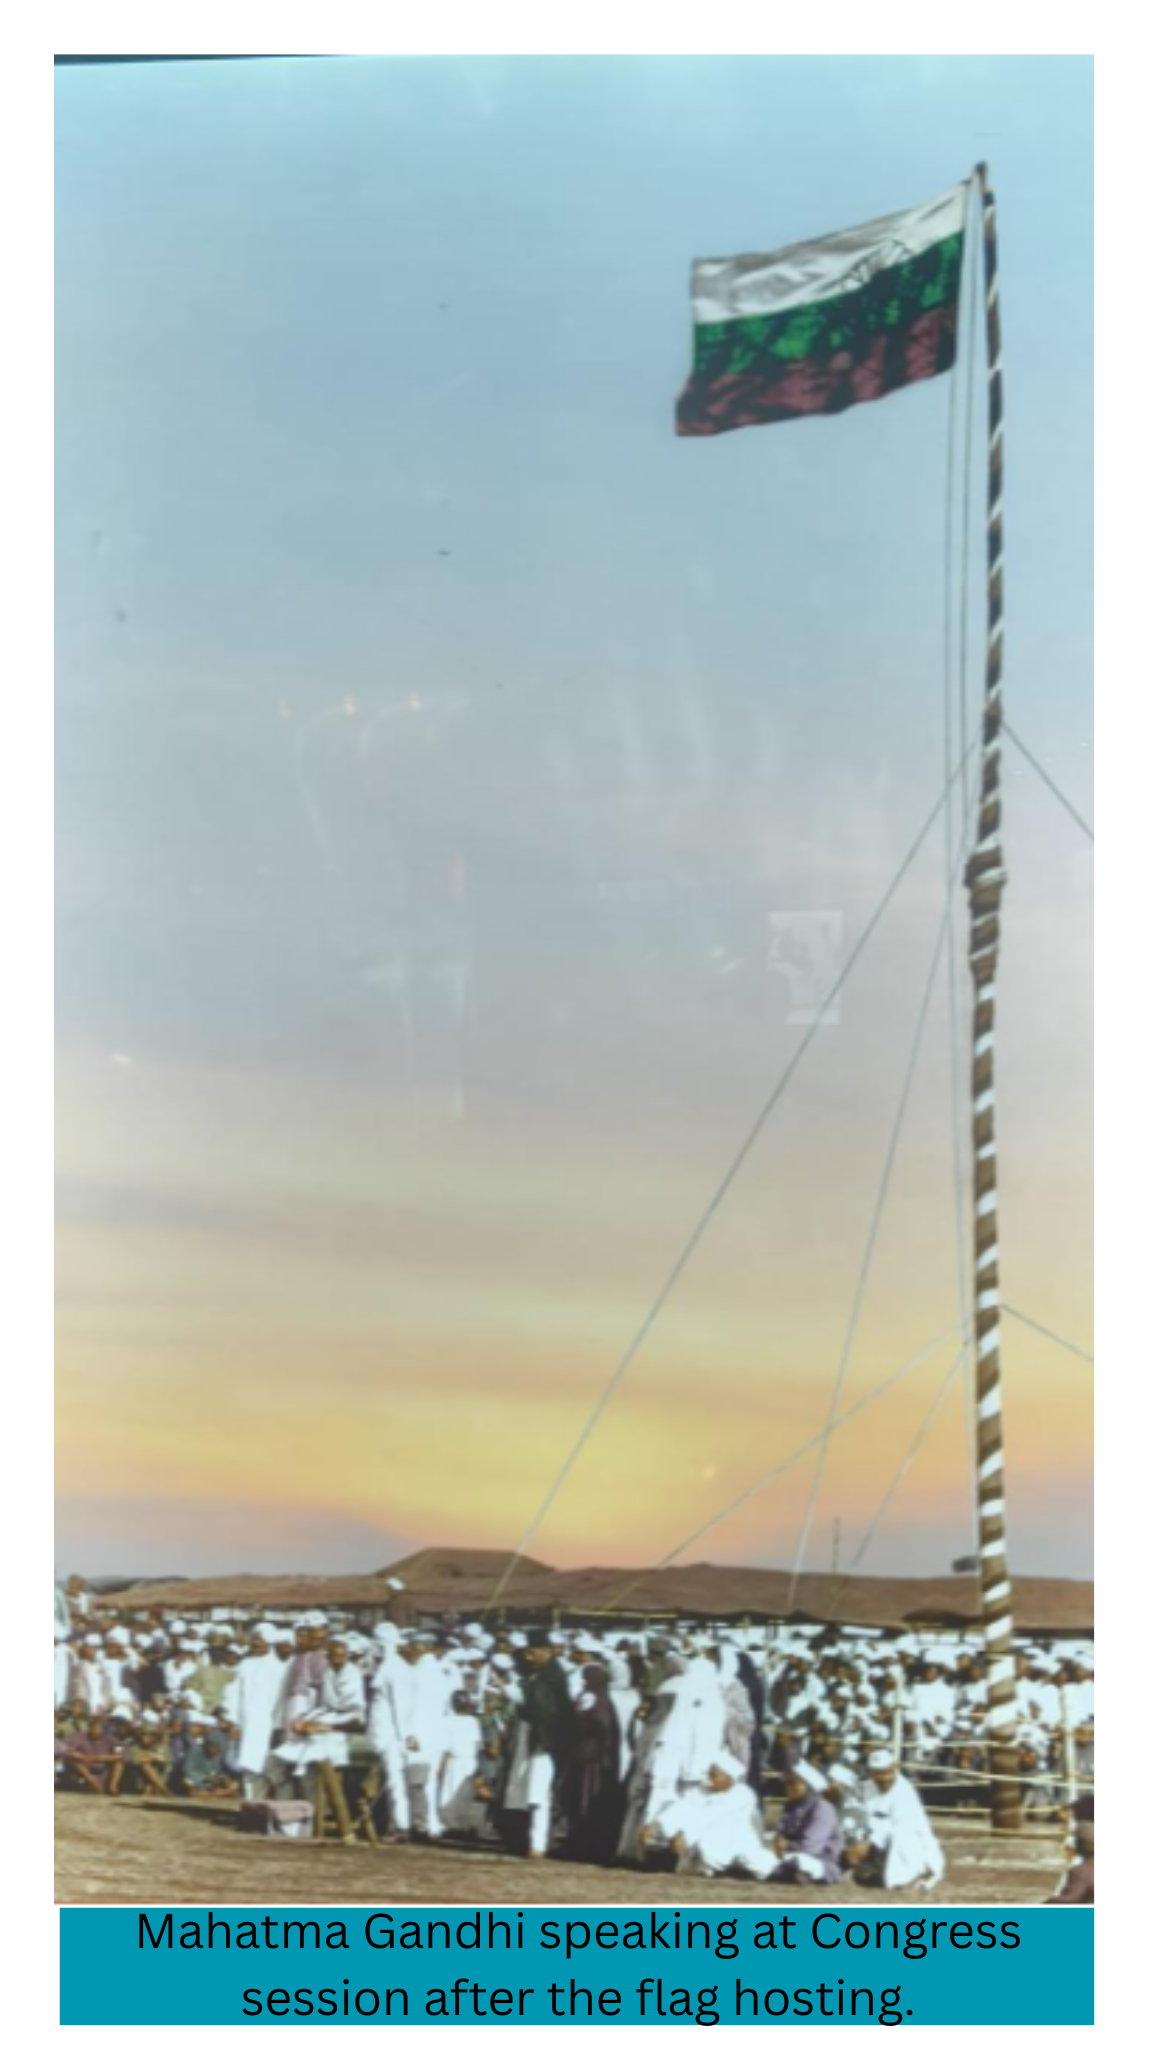
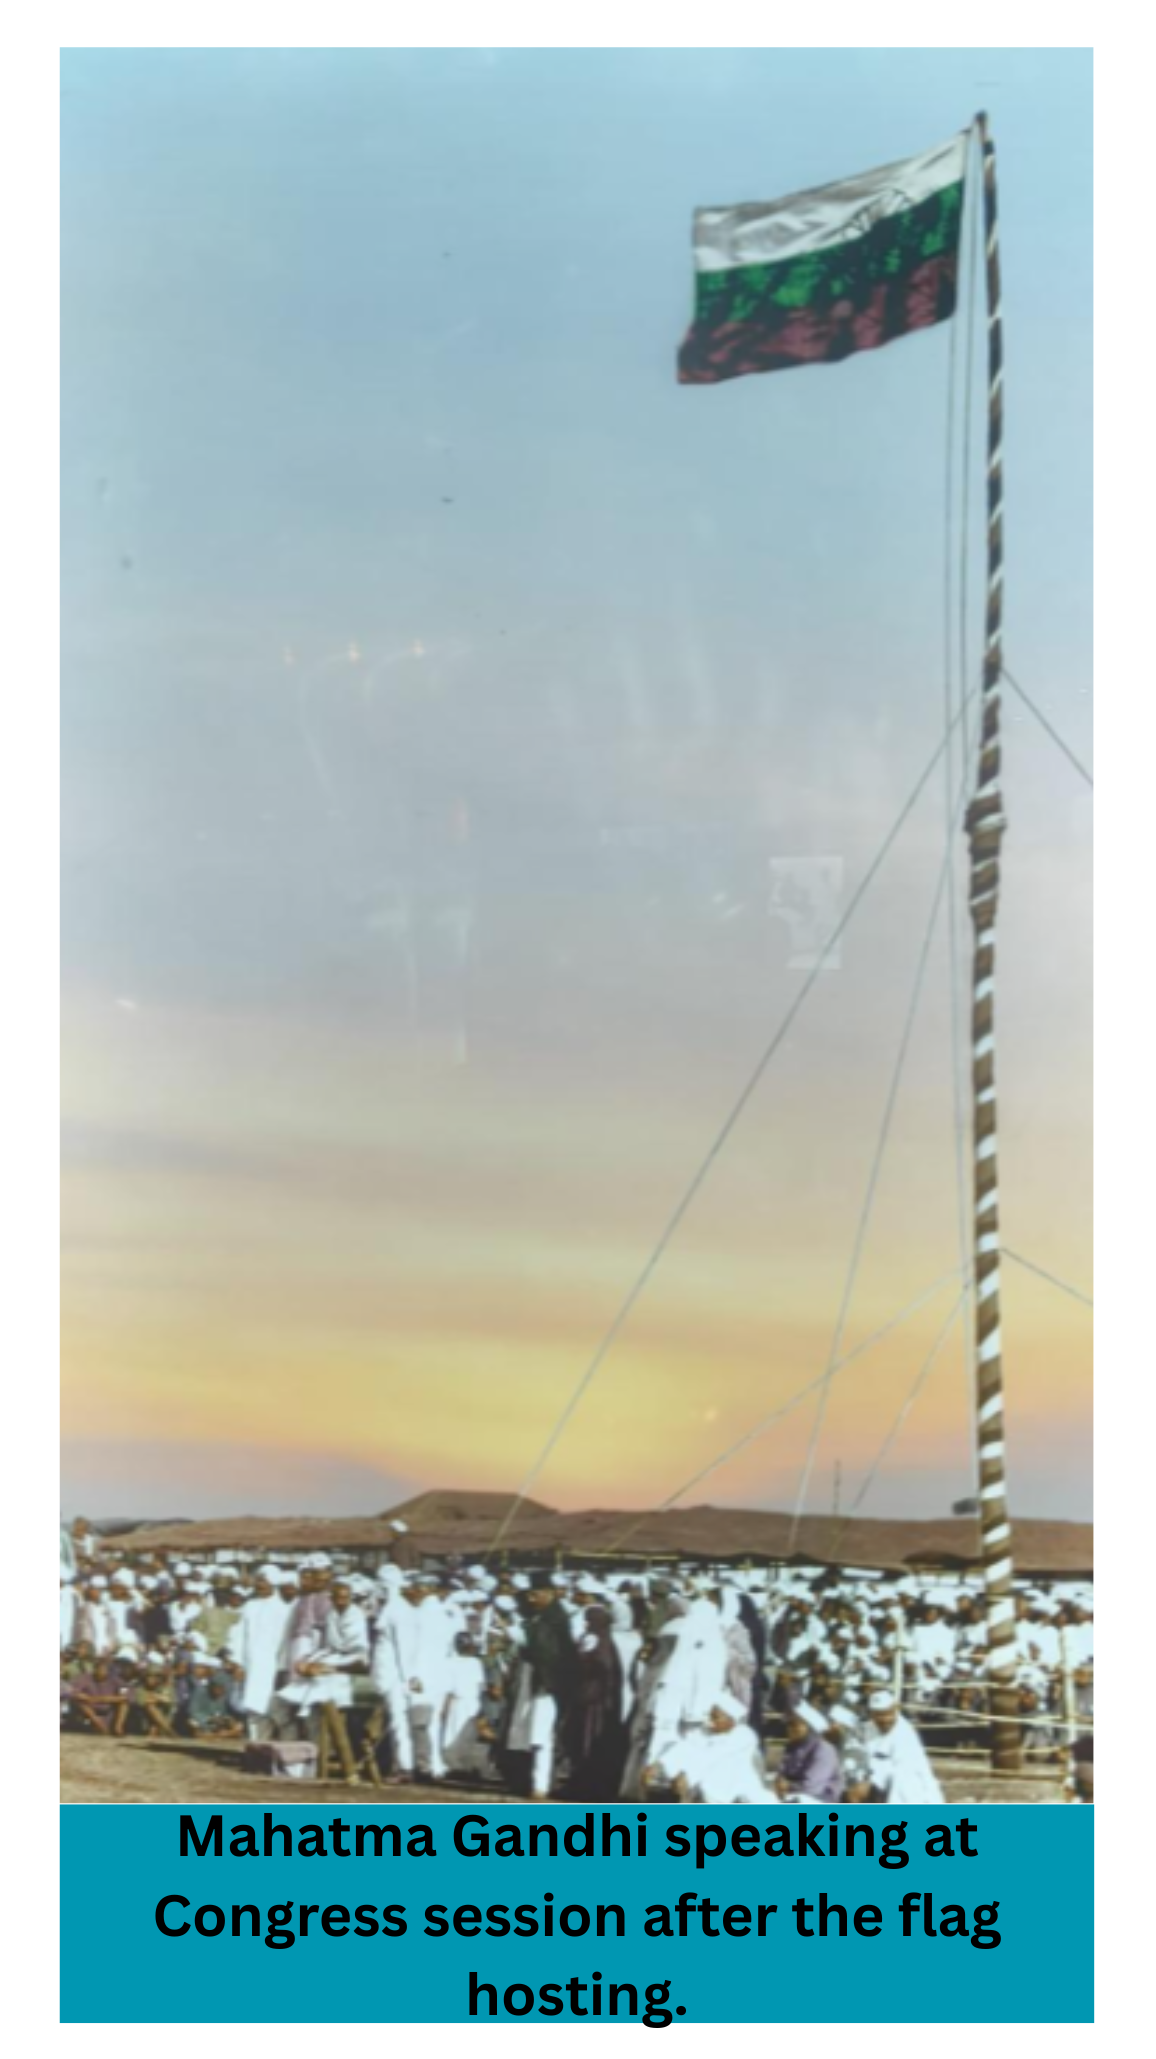
updated frames

diff --git a/index.html b/index.html
@@ -214,7 +214,7 @@ AFRAME.registerComponent('gate-focus', {
 <a-text value="Balkrishna Deshpande\nFather of Gangadharrao Deshpande" position="-56 11.5 80" rotation="0 120 0" align="center" width="12" color="black"></a-text>-->
 <a-plane src="procession.png" position="-56.5 16 80" rotation="0 120 0" width="10" height="6"></a-plane>
 
-<a-plane src="bhave.png" position="-56.5 7 80" rotation="0 120 0" width="10" height="6"></a-plane>
+<a-plane src="bhave.png" position="-56.5 7.5 80" rotation="0 120 0" width="10" height="6"></a-plane>
 
 <a-plane src="congresssession.png" position="-62 12 70" rotation="0 120 0" width="8" height="12"></a-plane>
 <!--<a-plane src="#mother" position="-56.5 6.5 80" rotation="0 120 0" width="8" height="7"></a-plane>
@@ -627,7 +627,7 @@ material="roughness:1">
 gltf-model="#deshpandeStatue2"
 position="0 7 42"
 rotation="0 0 0"
-scale="10 10 10"
+scale="11 11 11"
 brown-statue>
 </a-entity>
 
